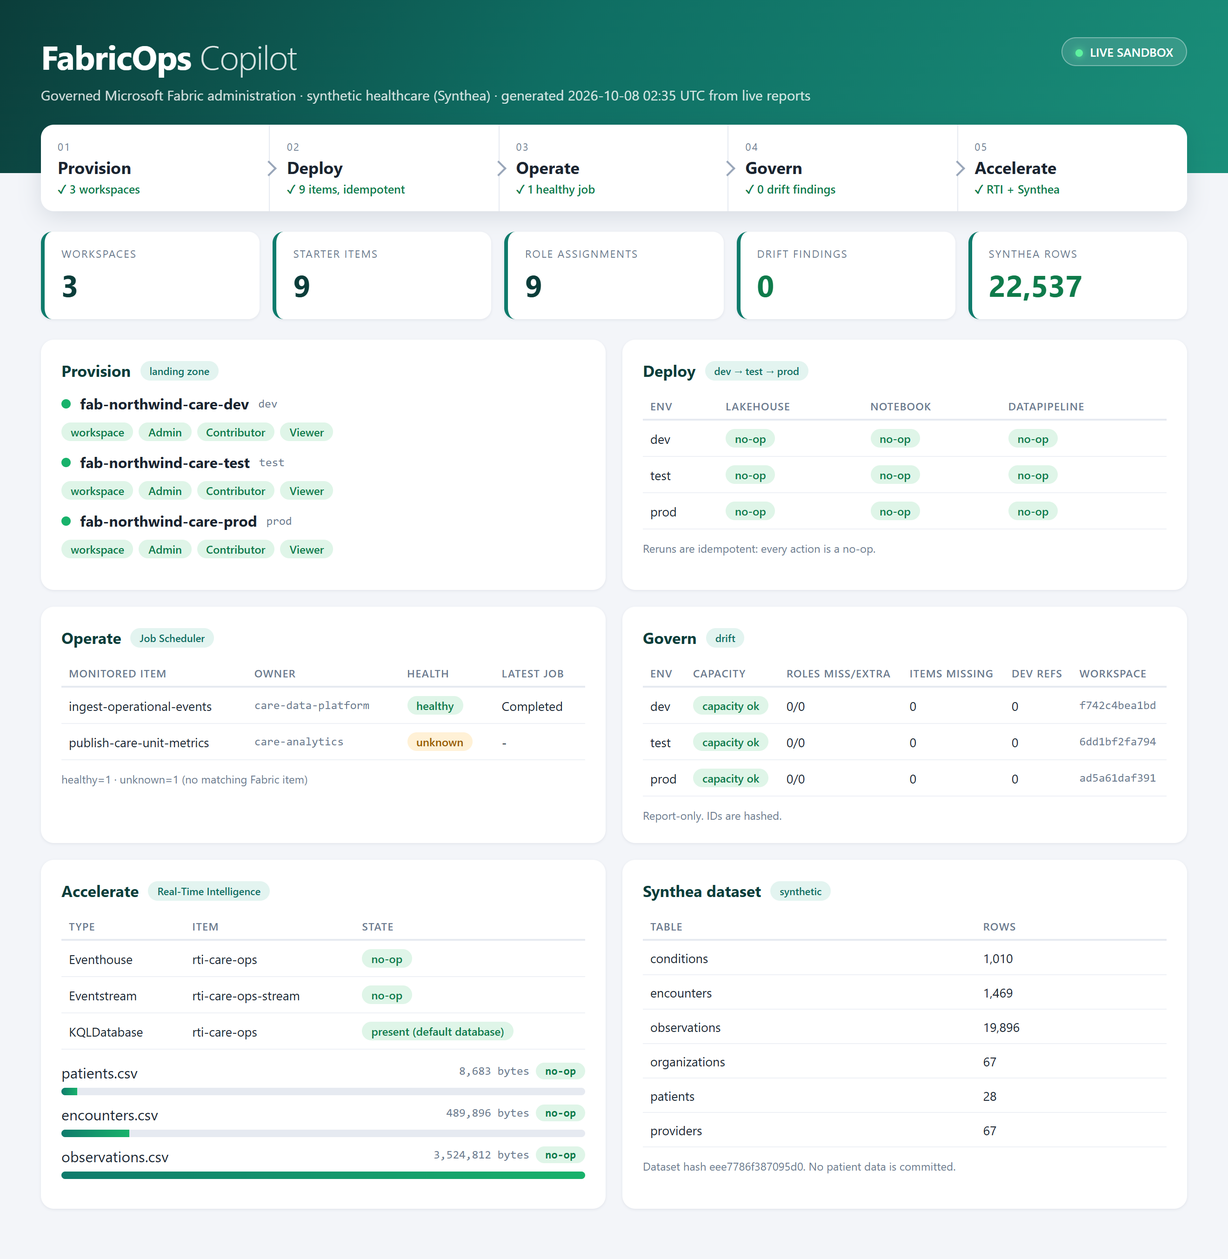
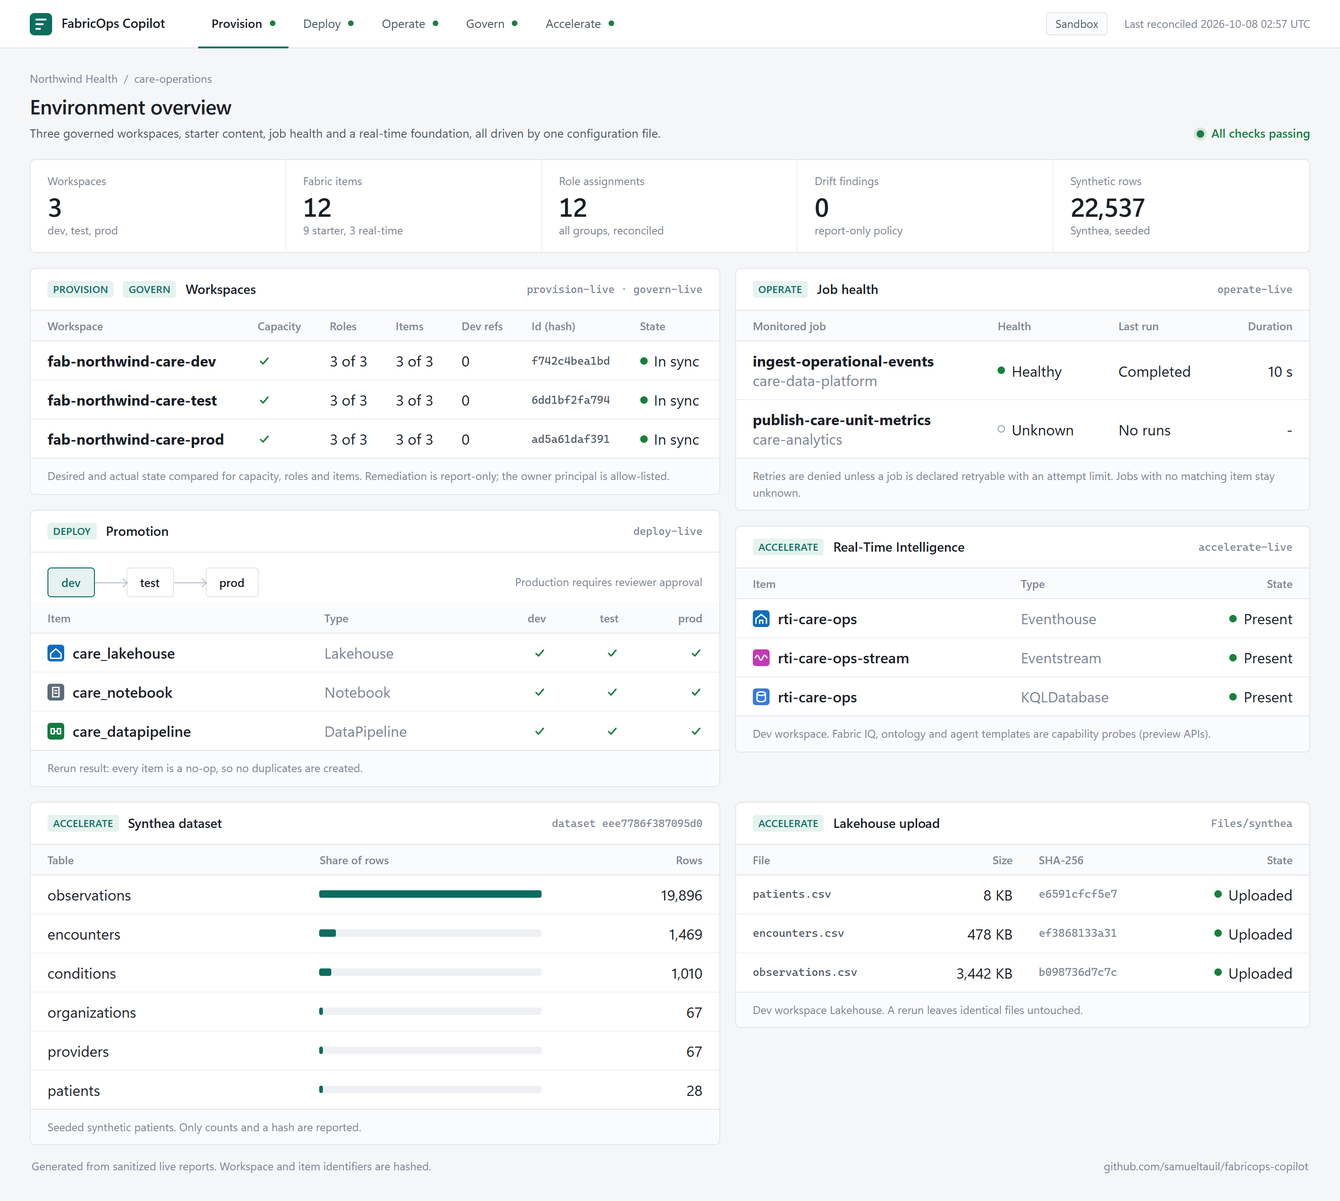
Rebuild dashboard as a console-style overview
Copilot-Session: 9b5a8cd7-6906-4984-b106-8cd755ccfdc0

diff --git a/scripts/build_dashboard.py b/scripts/build_dashboard.py
@@ -1,7 +1,7 @@
-"""Build a visual dashboard from the live FabricOps reports and screenshot it.
+"""Build a dashboard from the live FabricOps reports and screenshot it.
 
 Reads the sanitized JSON reports written by the *-live commands (hashed IDs only),
-renders an HTML page, and captures PNGs with a headless browser.
+renders a static HTML console view, and captures a PNG with a headless browser.
 """
 
 from __future__ import annotations
@@ -18,161 +18,227 @@ REPORTS = Path(sys.argv[1] if len(sys.argv) > 1 else "artifacts/real")
 OUT = Path("docs/images")
 
 CSS = """
+:root{
+  --bg:#f5f6f8;--panel:#fff;--line:#e3e6ea;--line2:#eef0f3;--ink:#1a1f26;--ink2:#4b5563;--mute:#7b8594;
+  --accent:#0b6e5f;--accent-bg:#e6f2ef;--ok:#17803d;--warn:#b45309;--bad:#b42318;
+  --mono:'Cascadia Mono','Consolas',monospace;
+}
 *{box-sizing:border-box}
-body{margin:0;font-family:'Segoe UI Variable','Segoe UI',system-ui,sans-serif;color:#1b2430;background:#f3f5f9;width:1320px}
-.hero{background:linear-gradient(120deg,#0b3d3a 0,#0f6e63 45%,#1a8f7a 100%);color:#fff;padding:36px 44px 74px;position:relative}
-.hero h1{margin:0;font-size:36px;font-weight:700;letter-spacing:-.6px}.hero h1 span{font-weight:300;opacity:.85}
-.hero .sub{margin-top:8px;font-size:15px;opacity:.82}
-.live{position:absolute;right:44px;top:40px;background:#ffffff22;border:1px solid #ffffff55;border-radius:99px;padding:6px 14px;font-size:13px;font-weight:600}
-.live:before{content:"";display:inline-block;width:8px;height:8px;border-radius:50%;background:#5ef2a0;margin-right:8px;box-shadow:0 0 8px #5ef2a0}
-.wrap{padding:0 44px 36px;margin-top:-52px;position:relative;z-index:3}
-.flow{display:grid;grid-template-columns:repeat(5,1fr);background:#fff;border-radius:14px;box-shadow:0 6px 24px #0b1e3a1f;margin-bottom:22px}
-.step{padding:16px 18px;border-right:1px solid #e6eaf1;position:relative}.step:last-child{border:0}
-.step .n{font-size:11px;letter-spacing:1.2px;color:#6b7a90}
-.step .t{font-size:18px;font-weight:700;margin:3px 0}.step .s{font-size:12.5px;color:#0f7b4b;font-weight:600}
-.step:after{content:"";position:absolute;right:-6px;top:50%;margin-top:-6px;width:10px;height:10px;background:#fff;border-top:2px solid #9aa7ba;border-right:2px solid #9aa7ba;transform:rotate(45deg);z-index:2}.step:last-child:after{display:none}
-.grid{display:grid;grid-template-columns:repeat(5,1fr);gap:14px;margin-bottom:22px}
-.pill{background:#fff;border-radius:12px;padding:16px 18px;border-left:4px solid #0f7b6c;box-shadow:0 1px 3px #0b1e3a14}
-.pill .k{font-size:11.5px;color:#6b7a90;text-transform:uppercase;letter-spacing:1px}
-.pill .v{font-size:32px;font-weight:700;margin-top:4px;color:#0b3d3a}
-.pill .v.ok{color:#0f7b4b}.pill .v.warn{color:#b26a00}
-.row{display:grid;grid-template-columns:1fr 1fr;gap:18px;margin-bottom:18px}
-.card{background:#fff;border-radius:14px;padding:22px;box-shadow:0 1px 3px #0b1e3a14}
-.card h2{margin:0 0 14px;font-size:17px;display:flex;align-items:center;gap:10px;color:#0b3d3a}
-.tag{font-size:11px;font-weight:600;padding:3px 10px;border-radius:99px;background:#e3f4f0;color:#0f6e63}
-table{width:100%;border-collapse:collapse;font-size:13.5px}
-th{color:#6b7a90;text-align:left;font-weight:600;font-size:11.5px;text-transform:uppercase;letter-spacing:.6px;padding:6px 8px;border-bottom:2px solid #e6eaf1}
-td{padding:9px 8px;border-bottom:1px solid #eef1f6}
-.b{display:inline-block;padding:2px 10px;border-radius:99px;font-size:12px;font-weight:600}
-.b.ok{background:#dff5e8;color:#0f7b4b}.b.warn{background:#fff1d6;color:#9a5b00}.b.info{background:#e3f4f0;color:#0f6e63}
-.env{display:flex;gap:10px;align-items:center;margin-bottom:10px}
-.dot{width:10px;height:10px;border-radius:50%;background:#18b26b}.mono{font-family:Consolas,monospace;color:#6b7a90;font-size:12.5px}
-.bar{height:8px;border-radius:99px;background:#e6eaf1;overflow:hidden;margin-top:6px}
-.bar i{display:block;height:100%;background:linear-gradient(90deg,#0f7b6c,#18b26b)}
-.foot{color:#6b7a90;font-size:12px;margin-top:12px}
+body{margin:0;width:1440px;background:var(--bg);color:var(--ink);font:13px/1.45 'Segoe UI Variable Text','Segoe UI',system-ui,sans-serif;
+  -webkit-font-smoothing:antialiased;font-variant-numeric:tabular-nums}
+.bar{height:52px;background:#fff;border-bottom:1px solid var(--line);display:flex;align-items:center;padding:0 32px;gap:28px}
+.brand{display:flex;align-items:center;gap:10px;font-weight:600;font-size:14px;letter-spacing:-.1px}
+.brand svg{display:block}
+.nav{display:flex;gap:2px;height:100%;margin-left:8px}
+.nav a{display:flex;align-items:center;gap:8px;padding:0 14px;color:var(--ink2);font-size:13px;border-bottom:2px solid transparent;margin-bottom:-1px}
+.nav a.on{color:var(--ink);font-weight:600;border-bottom-color:var(--accent)}
+.nav i{width:6px;height:6px;border-radius:50%;background:var(--ok);display:block}
+.right{margin-left:auto;display:flex;align-items:center;gap:18px;color:var(--mute);font-size:12px}
+.env{display:inline-flex;align-items:center;gap:6px;border:1px solid var(--line);border-radius:4px;padding:3px 9px;color:var(--ink2);font-size:12px;background:#fafbfc}
+.page{padding:24px 32px 28px}
+.crumb{color:var(--mute);font-size:12px;margin-bottom:6px}
+.titlerow{display:flex;align-items:flex-end;justify-content:space-between;margin-bottom:18px}
+h1{margin:0;font-size:22px;font-weight:600;letter-spacing:-.3px}
+.sub{color:var(--ink2);margin-top:3px}
+.status{display:flex;align-items:center;gap:8px;font-size:13px;color:var(--ok);font-weight:600}
+.status i{width:8px;height:8px;border-radius:50%;background:var(--ok);display:block;box-shadow:0 0 0 3px #17803d22}
+.kpis{display:grid;grid-template-columns:repeat(5,1fr);background:var(--panel);border:1px solid var(--line);border-radius:6px;margin-bottom:16px}
+.kpi{padding:14px 18px 15px;border-right:1px solid var(--line2)}.kpi:last-child{border:0}
+.kpi .l{color:var(--mute);font-size:12px}
+.kpi .n{font-size:28px;font-weight:600;letter-spacing:-.6px;margin:2px 0 1px;line-height:1.15}
+.kpi .d{color:var(--mute);font-size:12px}
+.cols{display:grid;grid-template-columns:minmax(0,1.2fr) minmax(0,1fr);gap:16px;margin-bottom:16px;align-items:start}
+.stack{display:flex;flex-direction:column;gap:16px}
+.panel{background:var(--panel);border:1px solid var(--line);border-radius:6px;overflow:hidden}
+.ph{display:flex;align-items:center;gap:10px;padding:12px 18px;border-bottom:1px solid var(--line)}
+.ph h2{margin:0;font-size:14px;font-weight:600}
+.ph .k{font-size:11px;font-weight:600;color:var(--accent);background:var(--accent-bg);border-radius:3px;padding:1px 6px;letter-spacing:.2px}
+.ph code{margin-left:auto;font:11.5px var(--mono);color:var(--mute)}
+table{width:100%;border-collapse:collapse}
+th{white-space:nowrap;font-weight:500;color:var(--mute);font-size:12px;text-align:left;padding:8px 18px;background:#fafbfc;border-bottom:1px solid var(--line)}
+td{white-space:nowrap;padding:10px 18px;border-bottom:1px solid var(--line2);vertical-align:middle}
+tr:last-child td{border-bottom:0}
+th.r,td.r{text-align:right}td.w{white-space:normal}
+th,td{padding-left:14px;padding-right:14px}th:first-child,td:first-child{padding-left:18px}th:last-child,td:last-child{padding-right:18px}
+.mono{font-family:var(--mono);font-size:12px;color:var(--ink2)}
+.dim{color:var(--mute)}
+.st{display:inline-flex;align-items:center;gap:7px;white-space:nowrap}
+.st i{width:8px;height:8px;border-radius:50%;display:block;background:var(--ok)}
+.st.warn i{background:#d97706}.st.idle i{background:#fff;border:1.5px solid #9aa3af}
+.ic{display:inline-flex;align-items:center;gap:9px;font-weight:500}
+.ic svg{flex:none}
+.ck{color:var(--ok);display:inline-block;vertical-align:-2px}
+.note{padding:10px 18px;border-top:1px solid var(--line);background:#fafbfc;color:var(--mute);font-size:12px}
+.flow{display:flex;align-items:center;gap:0;padding:16px 18px 6px}
+.node{border:1px solid var(--line);border-radius:4px;padding:6px 14px;font-weight:600;font-size:12.5px;background:#fff}
+.node.cur{border-color:var(--accent);color:var(--accent);background:var(--accent-bg)}
+.arrow{flex:none;width:34px;height:1px;background:#b6bdc7;position:relative}
+.arrow:after{content:"";position:absolute;right:0;top:-3px;width:6px;height:6px;border-top:1px solid #b6bdc7;border-right:1px solid #b6bdc7;transform:rotate(45deg)}
+.gate{margin-left:auto;color:var(--mute);font-size:12px;display:flex;align-items:center;gap:6px}
+.hb{display:flex;align-items:center;gap:12px}
+.hb .t{width:92px;color:var(--ink2)}
+.track{display:block;flex:1;height:8px;background:var(--line2);border-radius:2px;overflow:hidden}
+.track i{display:block;height:100%;background:var(--accent);border-radius:2px}
+.hb .v{width:62px;text-align:right}
+.foot{display:flex;justify-content:space-between;color:var(--mute);font-size:12px;padding:2px 2px 0}.cols+.foot{margin-top:16px}
 """
+
+ICONS = {
+    "Lakehouse": ("#0f6cbd", '<path d="M3 8.5 8 4l5 4.5V13H3z" fill="none" stroke="#fff" stroke-width="1.3" stroke-linejoin="round"/>'),
+    "Notebook": ("#5b6b7c", '<path d="M5 3.5h6v9H5zM7 6.5h2M7 9h2" fill="none" stroke="#fff" stroke-width="1.3" stroke-linecap="round"/>'),
+    "DataPipeline": ("#107c41", '<path d="M3.5 5.5h3v5h-3zM9.5 5.5h3v5h-3zM6.5 8h3" fill="none" stroke="#fff" stroke-width="1.3" stroke-linejoin="round"/>'),
+    "Eventhouse": ("#0f6cbd", '<path d="M3 13V8l5-4 5 4v5M6.5 13V9.5h3V13" fill="none" stroke="#fff" stroke-width="1.3" stroke-linejoin="round"/>'),
+    "KQLDatabase": ("#3a7bd5", '<ellipse cx="8" cy="5" rx="4" ry="1.7" fill="none" stroke="#fff" stroke-width="1.3"/><path d="M4 5v6c0 .9 1.8 1.7 4 1.7s4-.8 4-1.7V5" fill="none" stroke="#fff" stroke-width="1.3"/>'),
+    "Eventstream": ("#c239b3", '<path d="M2.5 8c1.2-3 2.3-3 3.5 0s2.3 3 3.5 0 2.3-3 4 0" fill="none" stroke="#fff" stroke-width="1.3" stroke-linecap="round"/>'),
+}
+CHECK = '<svg class="ck" width="14" height="14" viewBox="0 0 16 16"><path d="m3.5 8.5 3 3 6-7" fill="none" stroke="currentColor" stroke-width="1.8" stroke-linecap="round" stroke-linejoin="round"/></svg>'
+LOGO = (
+    '<svg width="24" height="24" viewBox="0 0 24 24"><rect width="24" height="24" rx="5" fill="#0b6e5f"/>'
+    '<path d="M7 7h10M7 12h7M7 17h4" stroke="#fff" stroke-width="2" stroke-linecap="round"/></svg>'
+)
 
 
 def load(name: str) -> dict:
     return json.loads((REPORTS / name).read_text(encoding="utf-8"))
 
 
-def badge(text: str, kind: str = "ok") -> str:
-    return f'<span class="b {kind}">{html.escape(text)}</span>'
+def esc(value: object) -> str:
+    return html.escape(str(value))
 
 
-def kind_for(action: str) -> str:
-    return "ok" if action in {"no-op", "healthy", "present (default database)"} else "warn"
+def icon(kind: str) -> str:
+    color, glyph = ICONS[kind]
+    return (
+        f'<svg width="18" height="18" viewBox="0 0 16 16"><rect width="16" height="16" rx="3" fill="{color}"/>{glyph}</svg>'
+    )
+
+
+def status(text: str, kind: str = "") -> str:
+    return f'<span class="st {kind}"><i></i>{esc(text)}</span>'
+
+
+def duration(job: dict) -> str:
+    if not job.get("latestJobStartUtc") or not job.get("latestJobEndUtc"):
+        return "-"
+    parse = lambda s: datetime.fromisoformat(s.rstrip("Z")[:26])  # noqa: E731
+    secs = (parse(job["latestJobEndUtc"]) - parse(job["latestJobStartUtc"])).total_seconds()
+    return f"{secs:.0f} s"
 
 
 def build() -> str:
     prov, dep = load("live-provision.json"), load("live-deploy.json")
     op, gov, acc = load("live-operate.json"), load("live-govern.json"), load("live-accelerate.json")
-    rows = dep["environments"]
-    items = sum(len(e["actions"]) for e in rows)
-    roles = sum(1 for e in prov["environments"] for a in e["actions"] if a["resource"].startswith("role/"))
-    rows_total = sum(acc["dataset"]["tableRowCounts"].values())
-    health = op["summary"]
     now = datetime.now(timezone.utc).strftime("%Y-%m-%d %H:%M UTC")
+    items = sum(len(e["actions"]) for e in dep["environments"])
+    rows_total = sum(acc["dataset"]["tableRowCounts"].values())
+    gov_by_env = {e["environment"]: e for e in gov["environments"]}
+    clean = gov["driftCount"] == 0
 
-    def pill(k: str, v: str, cls: str) -> str:
-        return f'<div class="pill"><div class="k">{k}</div><div class="v {cls}">{v}</div></div>'
+    nav = "".join(
+        f'<a class="{"on" if i == 0 else ""}">{n}<i></i></a>'
+        for i, n in enumerate(["Provision", "Deploy", "Operate", "Govern", "Accelerate"])
+    )
 
-    pills = "".join(
-        [
-            pill("Workspaces", str(len(prov["environments"])), "info"),
-            pill("Starter items", str(items), "info"),
-            pill("Role assignments", str(roles), "info"),
-            pill("Drift findings", str(gov["driftCount"]), "ok" if gov["driftCount"] == 0 else "warn"),
-            pill("Synthea rows", f"{rows_total:,}", "ok"),
+    kpis = "".join(
+        f'<div class="kpi"><div class="l">{l}</div><div class="n">{n}</div><div class="d">{d}</div></div>'
+        for l, n, d in [
+            ("Workspaces", len(prov["environments"]), "dev, test, prod"),
+            ("Fabric items", items + len(acc["realTimeIntelligence"]), f"{items} starter, {len(acc['realTimeIntelligence'])} real-time"),
+            ("Role assignments", sum(e["roleAssignments"]["actual"] for e in gov["environments"]), "all groups, reconciled"),
+            ("Drift findings", gov["driftCount"], "report-only policy"),
+            ("Synthetic rows", f"{rows_total:,}", "Synthea, seeded"),
         ]
     )
 
-    envs = "".join(
-        f'<div class="env"><span class="dot"></span><b>{html.escape(e["workspaceName"])}</b>'
-        f'<span class="mono">{html.escape(e["environment"])}</span></div>'
-        + "".join(
-            f'<span style="margin-right:6px">{badge(a["resource"].replace("role/", ""), kind_for(a["action"]))}</span>'
-            for a in e["actions"]
+    env_rows = ""
+    for e in prov["environments"]:
+        g = gov_by_env[e["environment"]]
+        ra, si = g["roleAssignments"], g["starterItems"]
+        env_rows += (
+            f'<tr><td><b>{esc(e["workspaceName"])}</b></td>'
+            f'<td>{CHECK}</td>'
+            f'<td>{ra["desired"] - ra["missing"]} of {ra["desired"]}</td>'
+            f'<td>{si["expected"] - si["missing"]} of {si["expected"]}</td>'
+            f'<td>{g["devReferences"]}</td><td class="mono">{esc(g["workspaceIdHash"])}</td>'
+            f'<td>{status("In sync")}</td></tr>'
         )
-        + '<div style="height:12px"></div>'
-        for e in prov["environments"]
-    )
 
-    dep_rows = "".join(
-        f'<tr><td>{html.escape(e["environment"])}</td>'
-        + "".join(f"<td>{badge(a['action'], kind_for(a['action']))}</td>" for a in e["actions"])
-        + "</tr>"
-        for e in rows
-    )
-    head = "".join(f"<th>{html.escape(a['type'])}</th>" for a in rows[0]["actions"])
+    types = [a["type"] for a in dep["environments"][0]["actions"]]
+    mat_rows = ""
+    for t in types:
+        cells = "".join(
+            f'<td class="r">{CHECK}</td>'
+            if any(a["type"] == t and a["action"] == "no-op" for a in e["actions"])
+            else '<td class="r dim">-</td>'
+            for e in dep["environments"]
+        )
+        name = next(a["item"] for a in dep["environments"][0]["actions"] if a["type"] == t)
+        mat_rows += f'<tr><td><span class="ic">{icon(t)}{esc(name)}</span></td><td class="dim">{esc(t)}</td>{cells}</tr>'
 
-    mon = "".join(
-        f'<tr><td>{html.escape(i["name"])}</td><td class="mono">{html.escape(i["owner"])}</td>'
-        f'<td>{badge(i["health"], "ok" if i["health"] == "healthy" else "warn")}</td>'
-        f'<td>{html.escape(str(i["latestJobStatus"] or "-"))}</td></tr>'
-        for i in op["items"]
-    )
-
-    gov_rows = "".join(
-        f'<tr><td>{html.escape(e["environment"])}</td><td>{badge("capacity ok" if e["capacityMatches"] else "capacity drift", "ok" if e["capacityMatches"] else "warn")}</td>'
-        f'<td>{e["roleAssignments"]["missing"]}/{e["roleAssignments"]["unexpected"]}</td>'
-        f'<td>{e["starterItems"]["missing"]}</td><td>{e["devReferences"]}</td>'
-        f'<td class="mono">{html.escape(e["workspaceIdHash"])}</td></tr>'
-        for e in gov["environments"]
-    )
+    jobs = ""
+    for i in op["items"]:
+        ok = i["health"] == "healthy"
+        jobs += (
+            f'<tr><td class="w"><b>{esc(i["name"])}</b><div class="dim">{esc(i["owner"])}</div></td>'
+            f'<td>{status(i["health"].capitalize(), "" if ok else "idle")}</td>'
+            f'<td>{esc(i["latestJobStatus"] or "No runs")}</td><td class="r">{duration(i)}</td></tr>'
+        )
 
     rti = "".join(
-        f'<tr><td>{html.escape(r["type"])}</td><td>{html.escape(r["item"])}</td><td>{badge(r["action"], kind_for(r["action"]))}</td></tr>'
+        f'<tr><td><span class="ic">{icon(r["type"])}{esc(r["item"])}</span></td><td class="dim">{esc(r["type"])}</td>'
+        f'<td class="r">{status("Present")}</td></tr>'
         for r in acc["realTimeIntelligence"]
     )
-    biggest = max(r["bytes"] for r in acc["syntheaUpload"])
-    files = "".join(
-        f'<div style="margin-bottom:10px"><div style="display:flex;justify-content:space-between"><span>{html.escape(r["table"])}.csv</span>'
-        f'<span class="mono">{r["bytes"]:,} bytes {badge(r["action"], kind_for(r["action"]))}</span></div>'
-        f'<div class="bar"><i style="width:{max(3, r["bytes"] * 100 // biggest)}%"></i></div></div>'
+
+    counts = acc["dataset"]["tableRowCounts"]
+    top = max(counts.values())
+    uploads = "".join(
+        f'<tr><td class="mono">{esc(r["table"])}.csv</td><td class="r">{r["bytes"] / 1024:,.0f} KB</td>'
+        f'<td class="mono dim">{esc(r["sha256"])}</td><td class="r">{status("Uploaded")}</td></tr>'
         for r in acc["syntheaUpload"]
     )
-    counts = acc["dataset"]["tableRowCounts"]
-    count_tbl = "".join(f"<tr><td>{k}</td><td>{v:,}</td></tr>" for k, v in counts.items())
-
-    flow = "".join(
-        f'<div class="step"><div class="n">{n}</div><div class="t">{t}</div><div class="s">&#10003; {st}</div></div>'
-        for n, t, st in [
-            ("01", "Provision", f"{len(prov['environments'])} workspaces"),
-            ("02", "Deploy", f"{items} items, idempotent"),
-            ("03", "Operate", f"{health.get('healthy', 0)} healthy job"),
-            ("04", "Govern", f"{gov['driftCount']} drift findings"),
-            ("05", "Accelerate", "RTI + Synthea"),
-        ]
+    bars = "".join(
+        f'<tr><td>{esc(k)}</td><td><span class="track"><i style="width:{max(1.5, v * 100 / top):.1f}%"></i></span></td>'
+        f'<td class="r">{v:,}</td>'
+        + "</tr>"
+        for k, v in sorted(counts.items(), key=lambda kv: -kv[1])
     )
-
     return f"""<html><head><meta charset="utf-8"><style>{CSS}</style></head><body>
-<div class="hero"><div class="live">LIVE SANDBOX</div><h1>FabricOps <span>Copilot</span></h1>
-<div class="sub">Governed Microsoft Fabric administration &middot; synthetic healthcare (Synthea) &middot; generated {now} from live reports</div></div>
-<div class="wrap">
-<div class="flow">{flow}</div>
-<div class="grid">{pills}</div>
-<div class="row">
-<div class="card" id="provision"><h2>Provision <span class="tag">landing zone</span></h2>{envs}</div>
-<div class="card" id="deploy"><h2>Deploy <span class="tag">dev &rarr; test &rarr; prod</span></h2>
-<table><tr><th>Env</th>{head}</tr>{dep_rows}</table>
-<div class="foot">Reruns are idempotent: every action is a no-op.</div></div></div>
-<div class="row">
-<div class="card" id="operate"><h2>Operate <span class="tag">Job Scheduler</span></h2>
-<table><tr><th>Monitored item</th><th>Owner</th><th>Health</th><th>Latest job</th></tr>{mon}</table>
-<div class="foot">healthy={health.get("healthy", 0)} &middot; unknown={health.get("unknown", 0)} (no matching Fabric item)</div></div>
-<div class="card" id="govern"><h2>Govern <span class="tag">drift</span></h2>
-<table><tr><th>Env</th><th>Capacity</th><th>Roles miss/extra</th><th>Items missing</th><th>Dev refs</th><th>Workspace</th></tr>{gov_rows}</table>
-<div class="foot">Report-only. IDs are hashed.</div></div></div>
-<div class="row">
-<div class="card" id="accelerate"><h2>Accelerate <span class="tag">Real-Time Intelligence</span></h2>
-<table><tr><th>Type</th><th>Item</th><th>State</th></tr>{rti}</table>
-<div style="height:14px"></div>{files}</div>
-<div class="card" id="synthea"><h2>Synthea dataset <span class="tag">synthetic</span></h2>
-<table><tr><th>Table</th><th>Rows</th></tr>{count_tbl}</table>
-<div class="foot">Dataset hash {html.escape(acc["dataset"]["datasetHash"])}. No patient data is committed.</div></div></div>
-</body></html>"""
+<div class="bar"><div class="brand">{LOGO}FabricOps Copilot</div><div class="nav">{nav}</div>
+<div class="right"><span class="env">Sandbox</span><span>Last reconciled {now}</span></div></div>
+<div class="page">
+<div class="crumb">Northwind Health &nbsp;/&nbsp; care-operations</div>
+<div class="titlerow"><div><h1>Environment overview</h1>
+<div class="sub">Three governed workspaces, starter content, job health and a real-time foundation, all driven by one configuration file.</div></div>
+<div class="status"><i></i>{"All checks passing" if clean else "Drift detected"}</div></div>
+<div class="kpis">{kpis}</div>
+<div class="cols">
+<div class="stack">
+<div class="panel"><div class="ph"><span class="k">PROVISION</span><span class="k">GOVERN</span><h2>Workspaces</h2><code>provision-live &middot; govern-live</code></div>
+<table><tr><th>Workspace</th><th>Capacity</th><th>Roles</th><th>Items</th><th>Dev refs</th><th>Id (hash)</th><th>State</th></tr>{env_rows}</table>
+<div class="note">Desired and actual state compared for capacity, roles and items. Remediation is report-only; the owner principal is allow-listed.</div></div>
+<div class="panel"><div class="ph"><span class="k">DEPLOY</span><h2>Promotion</h2><code>deploy-live</code></div>
+<div class="flow"><span class="node cur">dev</span><span class="arrow"></span><span class="node">test</span><span class="arrow"></span><span class="node">prod</span>
+<span class="gate">Production requires reviewer approval</span></div>
+<table><tr><th>Item</th><th>Type</th><th class="r">dev</th><th class="r">test</th><th class="r">prod</th></tr>{mat_rows}</table>
+<div class="note">Rerun result: every item is a no-op, so no duplicates are created.</div></div>
+</div>
+<div class="stack">
+<div class="panel"><div class="ph"><span class="k">OPERATE</span><h2>Job health</h2><code>operate-live</code></div>
+<table><tr><th>Monitored job</th><th>Health</th><th>Last run</th><th class="r">Duration</th></tr>{jobs}</table>
+<div class="note">Retries are denied unless a job is declared retryable with an attempt limit. Jobs with no matching item stay unknown.</div></div>
+<div class="panel"><div class="ph"><span class="k">ACCELERATE</span><h2>Real-Time Intelligence</h2><code>accelerate-live</code></div>
+<table><tr><th>Item</th><th>Type</th><th class="r">State</th></tr>{rti}</table>
+<div class="note">Dev workspace. Fabric IQ, ontology and agent templates are capability probes (preview APIs).</div></div>
+</div></div>
+<div class="cols" style="margin-bottom:0"><div class="panel"><div class="ph"><span class="k">ACCELERATE</span><h2>Synthea dataset</h2><code>dataset {esc(acc["dataset"]["datasetHash"])}</code></div>
+<table><tr><th>Table</th><th style="width:36%">Share of rows</th><th class="r">Rows</th></tr>{bars}</table>
+<div class="note">Seeded synthetic patients. Only counts and a hash are reported.</div></div>
+<div class="panel"><div class="ph"><span class="k">ACCELERATE</span><h2>Lakehouse upload</h2><code>Files/synthea</code></div>
+<table><tr><th>File</th><th class="r">Size</th><th>SHA-256</th><th class="r">State</th></tr>{uploads}</table>
+<div class="note">Dev workspace Lakehouse. A rerun leaves identical files untouched.</div></div></div>
+<div class="foot" style="margin-top:12px"><span>Generated from sanitized live reports. Workspace and item identifiers are hashed.</span><span>github.com/samueltauil/fabricops-copilot</span></div>
+</div></body></html>"""
 
 
 def main() -> None:
@@ -181,7 +247,7 @@ def main() -> None:
     Path("artifacts/dashboard.html").write_text(page_html, encoding="utf-8")
     with sync_playwright() as pw:
         browser = pw.chromium.launch(channel="msedge")
-        page = browser.new_page(viewport={"width": 1320, "height": 900}, device_scale_factor=2)
+        page = browser.new_page(viewport={"width": 1440, "height": 900}, device_scale_factor=2)
         page.set_content(page_html)
         page.screenshot(path=str(OUT / "dashboard.png"), full_page=True)
         browser.close()
